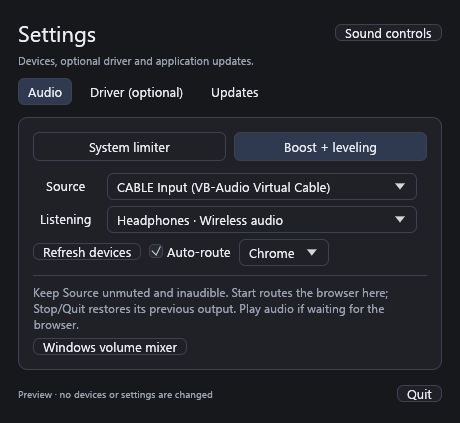
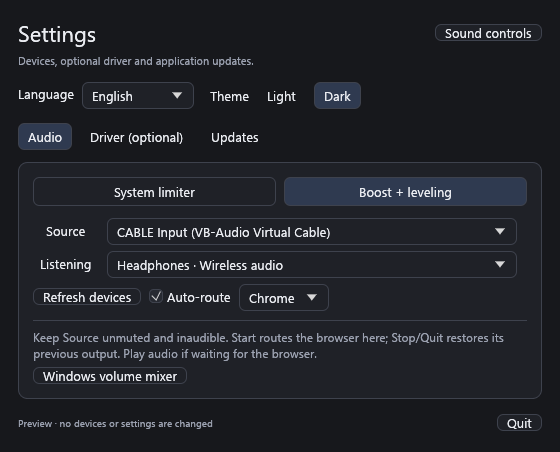
Refresh real localized screenshots and record bounded idle verification

diff --git a/src/i18n.rs b/src/i18n.rs
@@ -110,6 +110,38 @@ pub fn status(text: &str) -> std::borrow::Cow<'_, str> {
 }
 
 const MESSAGES: &[[&str; 6]] = &[
+    [
+        "The selected audio device is unavailable. Reconnect your headphones, then refresh the device list in Audio settings.",
+        "Выбранное аудиоустройство недоступно. Подключите наушники снова и обновите список устройств в настройках аудио.",
+        "L'appareil audio sélectionné est indisponible. Reconnectez le casque, puis actualisez les appareils dans les paramètres Audio.",
+        "Das gewählte Audiogerät ist nicht verfügbar. Kopfhörer wieder anschließen und die Geräteliste in den Audioeinstellungen aktualisieren.",
+        "El dispositivo de audio elegido no está disponible. Reconecta los auriculares y actualiza la lista en los ajustes de Audio.",
+        "Il dispositivo audio selezionato non è disponibile. Ricollega le cuffie e aggiorna l'elenco nelle impostazioni Audio.",
+    ],
+    [
+        "The driver setup task stopped unexpectedly. Please retry.",
+        "Установка драйвера неожиданно прервалась. Повторите попытку.",
+        "L'installation du pilote s'est interrompue. Réessayez.",
+        "Die Treiberinstallation wurde unerwartet beendet. Erneut versuchen.",
+        "La instalación del controlador se detuvo inesperadamente. Reintenta.",
+        "L'installazione del driver si è interrotta. Riprova.",
+    ],
+    [
+        "Download the driver package first",
+        "Сначала скачайте пакет драйвера",
+        "Téléchargez d'abord le paquet du pilote",
+        "Zuerst das Treiberpaket herunterladen",
+        "Descarga primero el paquete del controlador",
+        "Scarica prima il pacchetto del driver",
+    ],
+    [
+        "Driver package checksum does not match Pack 45. Download from the official website instead.",
+        "Контрольная сумма пакета не соответствует Pack 45. Скачайте драйвер с официального сайта.",
+        "La somme de contrôle ne correspond pas au Pack 45. Téléchargez le pilote sur le site officiel.",
+        "Die Prüfsumme entspricht nicht Pack 45. Treiber von der offiziellen Website herunterladen.",
+        "La suma de verificación no coincide con Pack 45. Descarga el controlador del sitio oficial.",
+        "La somma di controllo non corrisponde a Pack 45. Scarica il driver dal sito ufficiale.",
+    ],
     ["Language", "Язык", "Langue", "Sprache", "Idioma", "Lingua"],
     ["Theme", "Тема", "Thème", "Design", "Tema", "Tema"],
     ["Light", "Светлая", "Clair", "Hell", "Claro", "Chiaro"],

diff --git a/docs/validation-localization-0.2.0.md b/docs/validation-localization-0.2.0.md
@@ -1,0 +1,31 @@
+# Localization and appearance verification for 0.2.0
+
+## Automated checks
+
+- `cargo fmt --all -- --check`.
+- `cargo test --offline --locked --workspace`: 51 passed, 2 intentionally ignored tests requiring network or Windows audio-policy mutation. No real audio endpoint, driver setup or user settings were changed.
+- `cargo clippy --offline --locked --workspace --all-targets --all-features -- -D warnings`: passed.
+- Focused translated-layout checks cover every language in both themes, all Settings pages, available-update/error states, and both popup processing paths. They caught and fixed a Russian update-row overflow. Long diagnostics now use the actual remaining row width.
+- The catalog has 110 messages with six complete columns. Tests reject duplicate keys, empty translations and changed placeholders. Unknown user/device text stays unchanged.
+- Settings migration tests preserve audio preferences, device identifiers and update-check opt-out when adding language/theme defaults and round-trip non-default choices.
+
+## Actual application screenshots
+
+The optimized `ui-capture` build rendered through the production CPU/GDI host with fake preview endpoints and isolated AppData paths. Each invocation saved its own framebuffer, completed with exit code 0 and exited under an external 15-second timeout. No desktop capture or injected OS input was used. The capture path has an internal eight-second readiness timeout and rejects unknown view names.
+
+Reviewed at native 100% scale: English dark popup, Audio and Updates; Russian light Audio; German light Updates; French light attention dialog. Labels, spacing, controls, contrast and dialogs fit without clipping. Current popup and Settings screenshots, plus Russian/French light examples, are embedded in README. Captures show the client area; they do not prove OS tray-menu appearance or keyboard navigation.
+
+## Bounded rendering/load gate
+
+The host uses `egui_software_backend::EguiSoftwareRender` for CPU rasterization and Windows GDI bitmap presentation. The winit event loop sleeps with `Wait`/`WaitUntil`; language/theme application runs only on startup or a preference change. Hidden logic and visible meter updates retain their existing event-driven scheduling. Existing instances were checked before launching disposable preview processes. A shared named mutex serialized native preview launches against other project work.
+
+| Preview state | PID | Sample after startup | One-core CPU | Machine CPU (20 logical processors) | Root/popup paints after 2 s warmup | Logic after warmup |
+| --- | --- | --- | --- | --- | --- | --- |
+| Visible Russian light Settings | 38784 | 5.006 s after 3 s | 0.0% | 0.0% | 0 / 0 | 0 |
+| Hidden English dark Settings | 37144 | 5.000 s after 3 s | 0.0% | 0.0% | 0 / 0 | 0 |
+
+Both processes exited normally after nine seconds. No OpenGL/DirectX graphics modules were observed in these preview processes; source inspection establishes the actual CPU/GDI path. GPU telemetry was unavailable. CPU timer resolution limits the reported zero values; this is an idle sample, not a broad performance benchmark.
+
+## Remaining manual scope
+
+Live language/theme interaction through native OS input, native tray-menu appearance, keyboard/screen-reader traversal, physical mixed-DPI moves, hide/restore under input and real audio workload were not exercised in this change. Existing unit tests cover tray action dispatch and input behavior through egui fixtures; static PNGs do not replace that manual scope. Real driver installation and an in-place update during playback remain unverified here.

diff --git a/README.md b/README.md
@@ -23,6 +23,12 @@ Real application captures in preview mode, with simulated devices and no audio c
 
 ![Update settings with startup checking and in-app download and installation](docs/screenshots/update-settings.png)
 
+Light theme examples from the same application renderer:
+
+![Russian Audio settings with saved language and light theme controls](docs/screenshots/settings-light-ru.png)
+
+![French attention dialog in the light theme](docs/screenshots/dialog-light-fr.png)
+
 ## Download and run
 
 Requires **Windows 10/11 x64**. Rust, administrator access and a driver are not required to run the System limiter.
@@ -198,7 +204,7 @@ A real-window regression is available on an interactive Windows desktop:
 ./scripts/test-tray.ps1
 ```
 
-It uses preview mode with fake endpoints and no user settings writes. It exercises the actual installed tray callbacks, native visibility, toggle/dismiss, focus loss, separate Settings, minimize/restore, hidden commands and Quit. The `ui-capture` feature adds opt-in own-window PNG capture through `SOUND_LOCK_CAPTURE_TO` and `SOUND_LOCK_CAPTURE_VIEW` (`popup`, `audio`, `driver`, `updates`, `dialog`) when running with `--preview`. Production builds omit those QA features.
+It uses preview mode with fake endpoints and no user settings writes. It exercises the actual installed tray callbacks, native visibility, toggle/dismiss, focus loss, separate Settings, minimize/restore, hidden commands and Quit. The `ui-capture` feature adds opt-in own-window PNG capture through `SOUND_LOCK_CAPTURE_TO` and `SOUND_LOCK_CAPTURE_VIEW` (`popup`, `audio`, `driver`, `updates`, `dialog`) when running with `--preview`. Production builds omit those QA features. Preview-only `SOUND_LOCK_LANGUAGE` accepts `en`, `ru`, `fr`, `de`, `es` or `it`; `SOUND_LOCK_THEME=light` selects the light palette. The normal default is English/dark. Capture has an eight-second readiness deadline; wrap the disposable process in an external timeout as well.
 
 Settings: `%APPDATA%\SoundLock\settings.json`. Mode, slider values, update-check preference and stable device identifiers persist. Processing does not start automatically. Audio, Driver and Updates live in a separate, content-sized Settings window. Detail dialogs have a visible border, soft shadow and a dimmed, inactive background; close those dialogs with **Close** or Esc. The popup and Settings have no scrolling containers. There is no Sound Lock application installer, executable signing or Windows autostart yet.
 

diff --git a/docs/releases/0.2.0.md b/docs/releases/0.2.0.md
@@ -20,6 +20,6 @@ Versions 0.1.4 and newer can discover the canonical EXE in Settings > Updates. I
 
 ## Verification
 
-Automated checks cover catalog completeness and parameters, settings migration and persistence, all translated settings pages in both themes, existing audio/DSP behavior and updater fixtures. Real audio playback, vendor driver installation, physical mixed-DPI behavior and an in-place update of a live installation remain manual checks; no user audio routes or settings were changed during this work.
+51 automated tests pass (2 hardware/network tests remain intentionally ignored). Optimized isolated preview captures cover dark and light localized screens; visible/hidden idle samples produced no UI paints after warmup. Automated checks cover catalog completeness and parameters, settings migration and persistence, all translated settings pages in both themes, existing audio/DSP behavior and updater fixtures. Real audio playback, vendor driver installation, physical mixed-DPI behavior and an in-place update of a live installation remain manual checks; no user audio routes or settings were changed during this work.
 
 [Full changelog since v0.1.4](https://github.com/siarheisinelnikau/sound-lock/compare/v0.1.4...v0.2.0).
